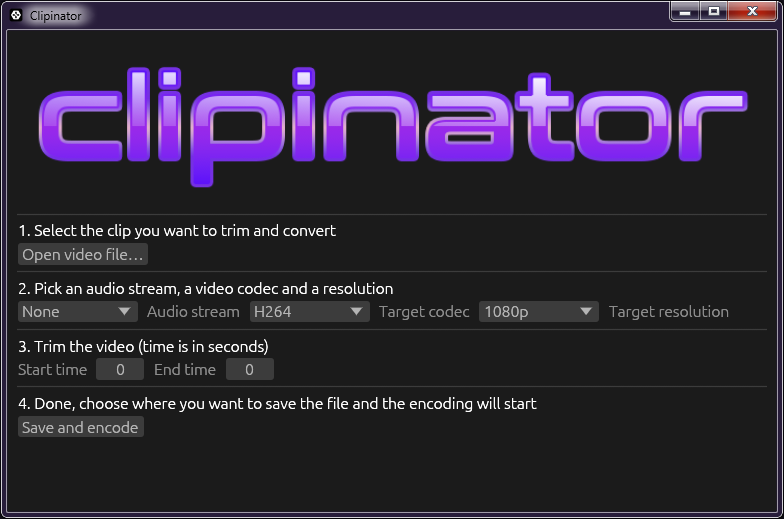
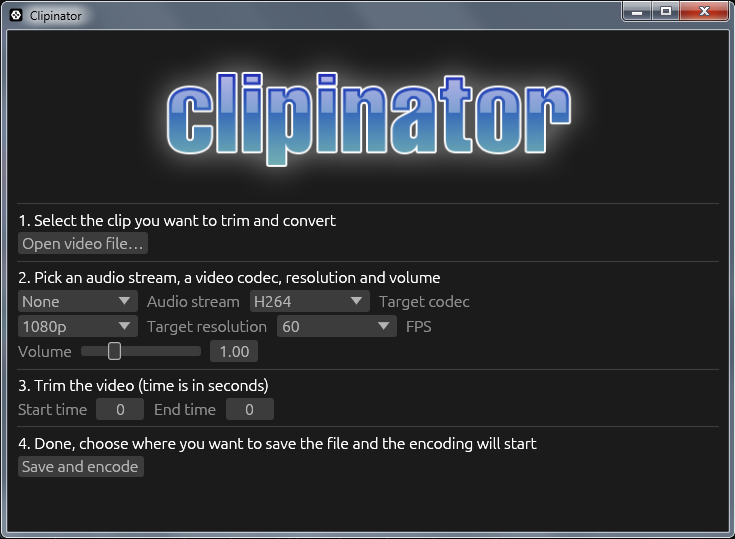
added file overwrite, volume slider

diff --git a/src/main.rs b/src/main.rs
@@ -4,7 +4,7 @@ use clap::Parser;
 use eframe::egui;
 use ffmpeg::{AudioStream, Codec, FFmpeg, Resolution};
 use hide_console;
-use std::{path::PathBuf, process::exit};
+use std::{fs::remove_file, path::PathBuf, process::exit};
 use strum::IntoEnumIterator;
 use win_msgbox;
 
@@ -47,6 +47,7 @@ struct Gui {
     start_time: f32,
     end_time: f32,
     framerate: u32,
+    volume: f32,
 }
 
 impl Default for Gui {
@@ -86,6 +87,7 @@ impl Default for Gui {
             start_time: 0.0,
             end_time: ffmpeg.video_duration as f32,
             framerate: 60,
+            volume: 1.0,
         }
     }
 }
@@ -124,8 +126,10 @@ impl eframe::App for Gui {
             // Some prerequisites in case there isn't a video loaded
             ui.separator();
             ui.label(
-                egui::RichText::new("2. Pick an audio stream, a video codec and a resolution")
-                    .strong(),
+                egui::RichText::new(
+                    "2. Pick an audio stream, a video codec, resolution and volume",
+                )
+                .strong(),
             );
             let mut audio_stream_str = "None".to_string();
             if self.audio_streams.len() != 0 {
@@ -199,6 +203,12 @@ impl eframe::App for Gui {
                     });
             });
 
+            // Volume adjustment
+            ui.horizontal(|ui| {
+                ui.label("Volume");
+                ui.add(egui::Slider::new(&mut self.volume, 0.0..=4.0));
+            });
+
             // Start and end time selectors
             ui.separator();
             ui.label(egui::RichText::new("3. Trim the video (time is in seconds)").strong());
@@ -236,6 +246,10 @@ impl eframe::App for Gui {
                     .add_filter("Video file", &["mp4", "mkv"])
                     .save_file()
                 {
+                    if path.exists() {
+                        // Delete file in case we want to overwrite it, otherwise ffmpeg refuses to run.
+                        remove_file(&path).expect("Couldn't delete existing file");
+                    }
                     let params = EncodeParams {
                         start_time: self.start_time as u32,
                         end_time: self.end_time as u32,
@@ -246,6 +260,7 @@ impl eframe::App for Gui {
                         resolution: num::FromPrimitive::from_u32(self.selected_resolution)
                             .expect("Resolution not found!"),
                         framerate: self.framerate,
+                        volume: self.volume,
                     };
 
                     self.ffmpeg.encode(params);

diff --git a/src/ffmpeg.rs b/src/ffmpeg.rs
@@ -31,6 +31,7 @@ pub struct EncodeParams {
     pub codec: Codec,
     pub resolution: Resolution,
     pub framerate: u32,
+    pub volume: f32,
 }
 
 #[derive(Clone, FromPrimitive, EnumIter)]
@@ -195,6 +196,7 @@ impl FFmpeg {
                     "-map",
                     format!("0:a:{}", params.audio_stream).as_str(),
                 ])
+                .args(["-filter:a", format!("volume={}", params.volume).as_str()])
                 .arg(&params.output_path)
                 .output();
 
